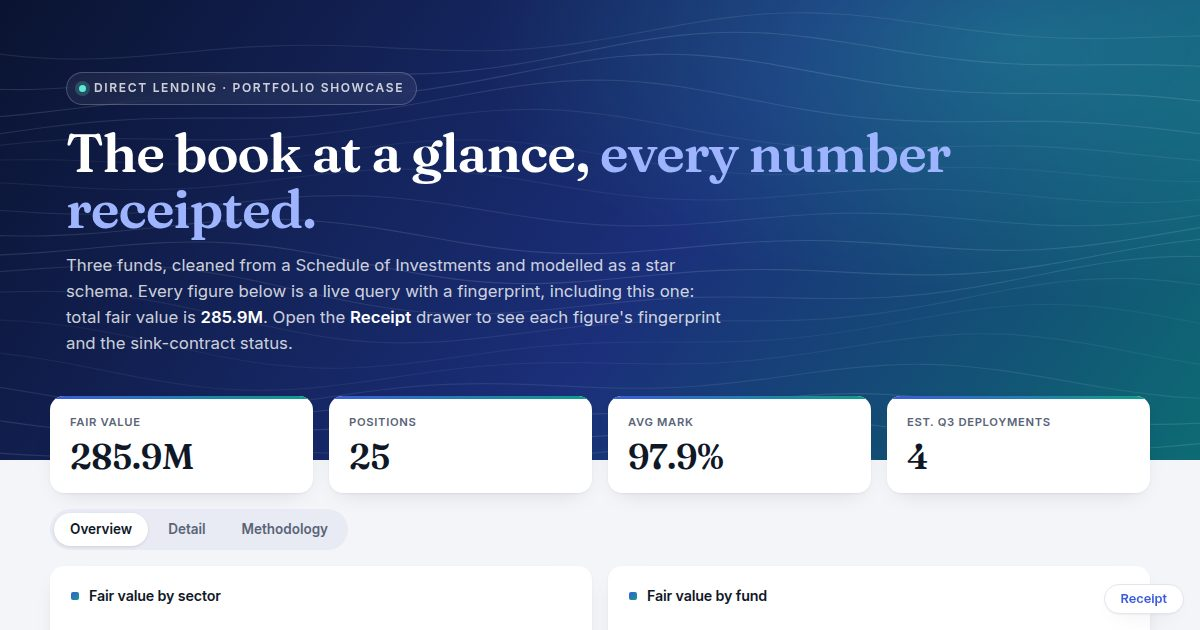
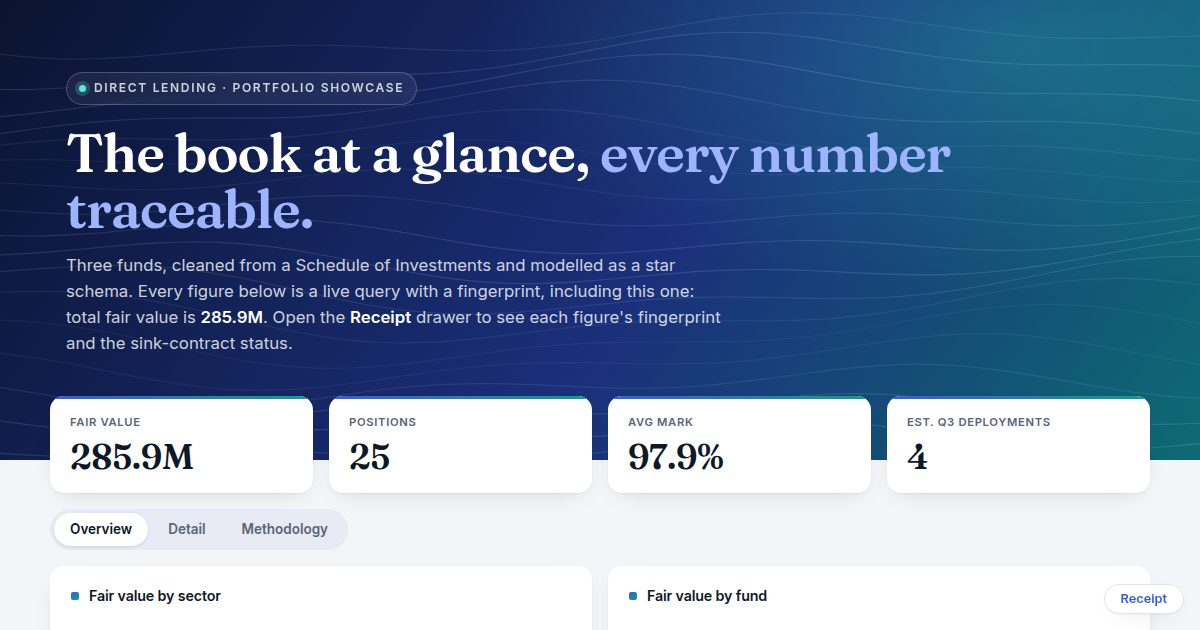
Replace "receipted" with plainer wording
The showcase headline now reads "every number traceable", the landing page
says every number "can be traced back to its query and re-checked", and the
docs say "verifiable lane" (matching `verifiable: false`). The sample report
and the landing-page screenshots are rebuilt from the new showcase.

Claude-Session: https://claude.ai/code/session_01WQqyZ6rjqANCdtd7jyQoU1

Changed region(s): [[0.0617, 0.3016, 0.2775, 0.3921]]

diff --git a/site/sample/portfolio_showcase.html b/site/sample/portfolio_showcase.html
@@ -751,7 +751,7 @@ body {
 
   <header class="sc-hero">
     <span class="sc-eyebrow">Direct lending · Portfolio showcase</span>
-    <h1>The book at a glance, <em>every number receipted.</em></h1>
+    <h1>The book at a glance, <em>every number traceable.</em></h1>
     <p class="sc-lede">Three funds, cleaned from a Schedule of Investments and
       modelled as a star schema. Every figure below is a live query with a
       fingerprint, including this one: total fair value is
@@ -2933,7 +2933,7 @@ var tracebiSelectionEval = function (rows, plan, selectionFilters) {
 <script id="tracebi-data-top_issuers" type="application/json">{"name": "top_issuers", "columns": "['dim_issuer.issuer', 'fair_value', 'cost_basis', 'mark']", "dtypes": "['object', 'float64', 'float64', 'float64']", "csv": "dim_issuer.issuer,fair_value,cost_basis,mark\nBeta Widgets Inc,35736396.18,35582296.03,1.0043308096214498\n\"Gamma Software Group, LLC\",34166063.769999996,36184597.85,0.9442156552805241\n\"Theta Retail Brands, LLC\",31893679.020000003,34937672.45,0.9128736055798703\n\"Omega Media Group, LLC\",31339594.54,30081639.720000003,1.0418180269330077\nDelta Systems Ltd,25838793.939999998,25711016.470000003,1.0049697556745407\n\"Mu Financial Services, LLC\",23206263.49,22494138.83,1.0316582317456962\nZeta Diagnostics Corporation,23201836.92,24973231.92,0.9290682517315124\n\"Epsilon Health Partners, LLC\",19231973.65,19926401.76,0.9651503508579261\n"}</script>
 <script id="tracebi-data-concentration" type="application/json">{"name": "concentration", "columns": "['dim_issuer.sector', 'cum_share']", "dtypes": "['object', 'float64']", "csv": "dim_issuer.sector,cum_share\nConsumer,0.2631\nIndustrials,0.5011\nSoftware,0.711\nHealthcare,0.8594\nFinancials,0.9405\nEnergy,1.0\n"}</script>
 <script id="tb-semantic-contract-portfolio_model" type="application/json">{"model": "portfolio_model", "facts": [{"name": "fact_holdings", "table": "fact_holdings", "measures": ["cost", "fair_value", "par", "spread_bps"], "foreign_keys": {"dim_fund": "fund_id", "dim_issuer": "issuer_id"}}], "dimensions": [{"name": "dim_fund", "table": "dim_fund", "key": "fund_id", "attributes": ["fund"]}, {"name": "dim_issuer", "table": "dim_issuer", "key": "issuer_id", "attributes": ["issuer", "sector"]}], "measures": [{"agg": "sum", "column": "cost", "description": "Total cost basis", "format": "currency0", "kind": "simple", "name": "cost_basis"}, {"agg": "sum", "column": "fair_value", "description": "Total fair value", "format": "currency0", "kind": "simple", "name": "fair_value"}, {"description": "Fair value / cost", "format": "percent", "kind": "ratio", "name": "mark", "ratio": ["fair_value", "cost_basis"]}, {"agg": "count", "column": "holding_id", "description": "Position count", "kind": "simple", "name": "positions"}], "tables": [{"name": "dim_fund", "connector": "warehouse", "source": "dim_fund"}, {"name": "dim_issuer", "connector": "warehouse", "source": "dim_issuer"}, {"name": "fact_holdings", "connector": "warehouse", "source": "fact_holdings"}]}</script>
[2 lines of base64/hex data omitted]
 <script id="tracebi-selection" type="application/json">{"report": "portfolio_showcase", "model": "portfolio_model", "filters": {}}</script>
 <script id="tracebi-grain" type="application/json">{"facts": {"fact_holdings": {"rows": [{"dim_issuer.sector": "Consumer", "dim_fund.fund": "Cedar Credit Partners", "dim_issuer.issuer": "Iota Foods Company", "fair_value": 11996473.0, "holding_id": 23, "cost": 12542477.2}, {"dim_issuer.sector": "Consumer", "dim_fund.fund": "Cedar Credit Partners", "dim_issuer.issuer": "Theta Retail Brands, LLC", "fair_value": 18756354.35, "holding_id": 20, "cost": 20323891.99}, {"dim_issuer.sector": "Consumer", "dim_fund.fund": "Harbor Point BDC", "dim_issuer.issuer": "Omega Media Group, LLC", "fair_value": 12484472.23, "holding_id": 18, "cost": 12071718.46}, {"dim_issuer.sector": "Consumer", "dim_fund.fund": "Harbor Point BDC", "dim_issuer.issuer": "Theta Retail Brands, LLC", "fair_value": 13137324.67, "holding_id": 9, "cost": 14613780.46}, {"dim_issuer.sector": "Consumer", "dim_fund.fund": "Meridian Direct Lending", "dim_issuer.issuer": "Omega Media Group, LLC", "fair_value": 18855122.31, "holding_id": 13, "cost": 18009921.26}, {"dim_issuer.sector": "Energy", "dim_fund.fund": "Cedar Credit Partners", "dim_issuer.issuer": "Kappa Energy Holdings, LLC", "fair_value": 717703.12, "holding_id": 24, "cost": 715212.06}, {"dim_issuer.sector": "Energy", "dim_fund.fund": "Harbor Point BDC", "dim_issuer.issuer": "Lambda Pipeline Co", "fair_value": 3279012.0, "holding_id": 25, "cost": 3255252.59}, {"dim_issuer.sector": "Energy", "dim_fund.fund": "Meridian Direct Lending", "dim_issuer.issuer": "Kappa Energy Holdings, LLC", "fair_value": 9243079.31, "holding_id": 5, "cost": 9604429.24}, {"dim_issuer.sector": "Energy", "dim_fund.fund": "Meridian Direct Lending", "dim_issuer.issuer": "Lambda Pipeline Co", "fair_value": 3758647.24, "holding_id": 7, "cost": 3739727.07}, {"dim_issuer.sector": "Financials", "dim_fund.fund": "Meridian Direct Lending", "dim_issuer.issuer": "Mu Financial Services, LLC", "fair_value": 23206263.49, "holding_id": 3, "cost": 22494138.83}, {"dim_issuer.sector": "Healthcare", "dim_fund.fund": "Cedar Credit Partners", "dim_issuer.issuer": "Epsilon Health Partners, LLC", "fair_value": 19231973.65, "holding_id": 1, "cost": 19926401.76}, {"dim_issuer.sector": "Healthcare", "dim_fund.fund": "Harbor Point BDC", "dim_issuer.issuer": "Zeta Diagnostics Corporation", "fair_value": 6545393.0, "holding_id": 8, "cost": 7091560.0}, {"dim_issuer.sector": "Healthcare", "dim_fund.fund": "Meridian Direct Lending", "dim_issuer.issuer": "Zeta Diagnostics Corporation", "fair_value": 16656443.92, "holding_id": 10, "cost": 17881671.92}, {"dim_issuer.sector": "Industrials", "dim_fund.fund": "Cedar Credit Partners", "dim_issuer.issuer": "Acme Industrial Holdings, LLC", "fair_value": 8357072.41, "holding_id": 17, "cost": 8311862.67}, {"dim_issuer.sector": "Industrials", "dim_fund.fund": "Cedar Credit Partners", "dim_issuer.issuer": "Beta Widgets Inc", "fair_value": 20087926.55, "holding_id": 12, "cost": 19520406.44}, {"dim_issuer.sector": "Industrials", "dim_fund.fund": "Cedar Credit Partners", "dim_issuer.issuer": "Sigma Logistics Holdings, LLC", "fair_value": 8114795.85, "holding_id": 19, "cost": 8401514.88}, {"dim_issuer.sector": "Industrials", "dim_fund.fund": "Harbor Point BDC", "dim_issuer.issuer": "Acme Industrial Holdings, LLC", "fair_value": 2858657.41, "holding_id": 15, "cost": 2970828.24}, {"dim_issuer.sector": "Industrials", "dim_fund.fund": "Harbor Point BDC", "dim_issuer.issuer": "Beta Widgets Inc", "fair_value": 9838721.63, "holding_id": 14, "cost": 10201420.59}, {"dim_issuer.sector": "Industrials", "dim_fund.fund": "Harbor Point BDC", "dim_issuer.issuer": "Sigma Logistics Holdings, LLC", "fair_value": 8141824.25, "holding_id": 2, "cost": 8135782.69}, {"dim_issuer.sector": "Industrials", "dim_fund.fund": "Meridian Direct Lending", "dim_issuer.issuer": "Acme Industrial Holdings, LLC", "fair_value": 4822579.11, "holding_id": 21, "cost": 4609098.93}, {"dim_issuer.sector": "Industrials", "dim_fund.fund": "Meridian Direct Lending", "dim_issuer.issuer": "Beta Widgets Inc", "fair_value": 5809748.0, "holding_id": 16, "cost": 5860469.0}, {"dim_issuer.sector": "Software", "dim_fund.fund": "Cedar Credit Partners", "dim_issuer.issuer": "Delta Systems Ltd", "fair_value": 19582802.49, "holding_id": 6, "cost": 18790498.26}, {"dim_issuer.sector": "Software", "dim_fund.fund": "Cedar Credit Partners", "dim_issuer.issuer": "Gamma Software Group, LLC", "fair_value": 12690016.66, "holding_id": 11, "cost": 13415372.58}, {"dim_issuer.sector": "Software", "dim_fund.fund": "Harbor Point BDC", "dim_issuer.issuer": "Gamma Software Group, LLC", "fair_value": 21476047.11, "holding_id": 4, "cost": 22769225.27}, {"dim_issuer.sector": "Software", "dim_fund.fund": "Meridian Direct Lending", "dim_issuer.issuer": "Delta Systems Ltd", "fair_value": 6255991.45, "holding_id": 22, "cost": 6920518.21}]}}, "bindings": {"kpis": {"offline": true, "fact": "fact_holdings", "dimensions": [], "aggs": [{"name": "fair_value", "source": "fair_value", "func": "sum"}, {"name": "positions", "source": "holding_id", "func": "count"}, {"name": "cost_basis", "source": "cost", "func": "sum"}], "ratios": [{"name": "mark", "num": "fair_value", "den": "cost_basis"}], "order_by": [], "limit": null, "binding_filters": {}}, "by_sector": {"offline": true, "fact": "fact_holdings", "dimensions": ["dim_issuer.sector"], "aggs": [{"name": "fair_value", "source": "fair_value", "func": "sum"}], "ratios": [], "order_by": [{"column": "fair_value", "desc": true}], "limit": null, "binding_filters": {}}, "by_fund": {"offline": true, "fact": "fact_holdings", "dimensions": ["dim_fund.fund"], "aggs": [{"name": "fair_value", "source": "fair_value", "func": "sum"}], "ratios": [], "order_by": [{"column": "fair_value", "desc": true}], "limit": null, "binding_filters": {}}, "holdings_detail": {"offline": true, "fact": "fact_holdings", "dimensions": ["dim_issuer.issuer", "dim_issuer.sector"], "aggs": [{"name": "fair_value", "source": "fair_value", "func": "sum"}, {"name": "cost_basis", "source": "cost", "func": "sum"}], "ratios": [{"name": "mark", "num": "fair_value", "den": "cost_basis"}], "order_by": [{"column": "fair_value", "desc": true}], "limit": null, "binding_filters": {}}, "top_issuers": {"offline": true, "fact": "fact_holdings", "dimensions": ["dim_issuer.issuer"], "aggs": [{"name": "fair_value", "source": "fair_value", "func": "sum"}, {"name": "cost_basis", "source": "cost", "func": "sum"}], "ratios": [{"name": "mark", "num": "fair_value", "den": "cost_basis"}], "order_by": [{"column": "fair_value", "desc": true}], "limit": 8, "binding_filters": {}}}}</script>
 <script id="tracebi-figures" type="application/json">{"badges": false, "figures": [{"id": "val-fv-inline", "provenance": "verified"}, {"id": "kpi-fv", "provenance": "verified"}, {"id": "kpi-pos", "provenance": "verified"}, {"id": "kpi-mark", "provenance": "verified"}, {"id": "kpi-est", "provenance": "unverified", "note": "analyst estimate"}, {"id": "chart-sector", "provenance": "verified"}, {"id": "fig-chart_fund", "provenance": "verified"}, {"id": "tbl-top", "provenance": "verified"}, {"id": "chart-conc", "provenance": "derived"}, {"id": "tbl-detail", "provenance": "verified"}]}</script>

diff --git a/site/index.html b/site/index.html
@@ -353,7 +353,7 @@
     <p>Revenue means the same thing in a quick answer as it does in the board pack, because a measure is declared once on the model and every report calls it by name. A question can grow into an analysis, and an analysis can become a weekly report, without a rebuild in another tool.</p>
     <div class="grid g3 path3" style="margin-top:1.6em">
       <div class="card val"><div class="ic">ASK</div><h3>An answer in seconds</h3><p>“What was fair value in Software last quarter, by fund?” An agent queries the model and answers, with the definition it used and a fingerprint behind every number. Nothing to review: it only uses definitions a person already approved.</p><span class="today">today: on an open report, and from any MCP agent</span></div>
-      <div class="card val"><div class="ic">BUILD</div><h3>A one-off analysis, your way</h3><p>An analyst and their agent explore live, keep the charts that tell the story, write the prose, and lay out the page with the team’s style. The result is one file with every number receipted. Most analysis is done once, and that’s fine.</p><span class="today">today: tracebi new-report · dev · report build</span></div>
+      <div class="card val"><div class="ic">BUILD</div><h3>A one-off analysis, your way</h3><p>An analyst and their agent explore live, keep the charts that tell the story, write the prose, and lay out the page with the team’s style. The result is one file where every number can be traced back to its query and re-checked. Most analysis is done once, and that’s fine.</p><span class="today">today: tracebi new-report · dev · report build</span></div>
       <div class="card val"><div class="ic">SCHEDULE</div><h3>Approve it once</h3><p>Give a report a <span class="mono">schedule</span> block and it runs on its own: refresh the data, build, check the numbers still reproduce, then email it. Approved once, in a pull request, like any other code.</p><span class="today">today: tracebi schedule run · serve</span></div>
     </div>
     <p class="statement" style="margin-top:1.6em">Everything that makes a number is <b>in the repo, reviewable, and governed.</b></p>

diff --git a/site/docs/concepts/report.html b/site/docs/concepts/report.html
@@ -120,7 +120,7 @@ needs its own binding, and value figures never react to controls. See
 <code>verifiable: false</code> and never read green.</p>
 <p>That asymmetry is deliberate — see <a href="../concepts/receipts.html">Receipts</a>. Reach for
 it only when the <a href="../concepts/model.html">Model — phase ②</a> genuinely cannot express the number, because
-everything you compute here leaves the receipted lane.</p>
+everything you compute here leaves the verifiable lane.</p>
 <h2 id="related">Related</h2>
 <ul>
 <li><a href="../reference/report-json.html">report.json</a> · <a href="../reference/template-html.html">template.html — the figure grammar</a> · <a href="../reference/figure-helper.html">{{ figure("name") }}</a></li>

diff --git a/site/docs/concepts/model.html b/site/docs/concepts/model.html
@@ -108,7 +108,7 @@ not declared, so anything the model <em>can</em> express is automatically replay
 a <code>report.py</code> whose outputs are stamped <code>verifiable: false</code> and never read
 green.</p>
 <p>So adding a measure kind is not only a convenience feature; it pulls a number
-back into the receipted lane. That is why the <a href="../reference/measures.html">Measures</a> vocabulary is
+back into the verifiable lane. That is why the <a href="../reference/measures.html">Measures</a> vocabulary is
 deliberately broad and deliberately closed: broad, so real analysis fits; closed,
 so nothing arbitrary slips in.</p>
 <h2 id="validate-it">Validate it</h2>

diff --git a/examples/portfolio_project/reports/portfolio_showcase/template.html b/examples/portfolio_project/reports/portfolio_showcase/template.html
@@ -28,7 +28,7 @@
 
   <header class="sc-hero">
     <span class="sc-eyebrow">Direct lending · Portfolio showcase</span>
-    <h1>The book at a glance, <em>every number receipted.</em></h1>
+    <h1>The book at a glance, <em>every number traceable.</em></h1>
     <p class="sc-lede">Three funds, cleaned from a Schedule of Investments and
       modelled as a star schema. Every figure below is a live query with a
       fingerprint, including this one: total fair value is

diff --git a/docs/strategy/vision-and-positioning.md b/docs/strategy/vision-and-positioning.md
@@ -46,7 +46,7 @@ TraceBi is built around those three. BI tools are built around the editor.
 | Starts with | A question: "What was fair value in Software last quarter?" | A piece of work: a deep dive, a board memo, a client deliverable, a one-off investigation | "Send the sales leads this every Monday." |
 | What happens | An agent queries the model and answers in seconds | The analyst explores live (`tracebi dev`), shapes the story, lays out the page their way, and builds one self-contained file | The report gets a `schedule` block and runs on its own: refresh, build, check, deliver |
 | Review | None per question: it only uses definitions already approved | The analyst's call. Peer review for anything that leaves the team, as with any analysis. | Approved once, in a pull request |
-| Result | An answer with the query and a fingerprint behind every number | A one-off artifact: charts, tables and prose, every number receipted, shareable as one file | A report that arrives on time, every time |
+| Result | An answer with the query and a fingerprint behind every number | A one-off artifact: charts, tables and prose, every number traceable, shareable as one file | A report that arrives on time, every time |
 | Today | Ask on a report; any MCP agent (`query_model`) | ✅ `tracebi new-report`, `tracebi dev` with the workbench, `report build`, custom styling and assets | ✅ `schedule` block, `tracebi schedule` |
 
 **They connect.** A question can grow into a one-off analysis, and a one-off

diff --git a/docs/strategy/product-strategy.md b/docs/strategy/product-strategy.md
@@ -43,7 +43,7 @@ first-class, not as a report waiting for a schedule.
 | **Explore** | The analyst (or their agent) queries the model and tries ideas; scratch work stays out of the final file | ✅ `tracebi dev`, the workbench, exploration blocks, `tracebi.workbench.show()`, `tracebi session export` | Share a live exploration link with a colleague | Q2 |
 | **Shape** | Pick what the story needs: figures, prose, tables | ✅ Package grammar, `{{ figure() }}`, `report.py` for the analysis the model can't express | Templates for common analyses (variance, cohort, concentration) | Q2 |
 | **Lay out** | The page looks the way the analyst wants | ✅ `style.css`, `assets/` fonts and images, `configureChart` | A small gallery of layouts to start from | Q2 |
-| **Build and share** | One self-contained file, every number receipted | ✅ `tracebi report build`, `tracebi report send`, `verify --file` | Download as PDF; a shareable link from the app | Q2–Q3 |
+| **Build and share** | One self-contained file, every number traceable | ✅ `tracebi report build`, `tracebi report send`, `verify --file` | Download as PDF; a shareable link from the app | Q2–Q3 |
 | **Review** | Peer review, the way the team already reviews analysis | Git pull request, pins in the workbench | Review in the app for people who don't use git | Q3 |
 
 The analyst stays in charge: plain files, their own layout and prose, and an

diff --git a/tracebi/knowledge/lessons/group-by-band.md b/tracebi/knowledge/lessons/group-by-band.md
@@ -7,7 +7,7 @@ when: bucketing a numeric attribute into ranges — score bands, age brackets, s
 by raw columns only — grouping by `credit_score` gives one row per distinct
 score, useless. So the band gets pre-baked as a column in the transform (a
 maintenance burden, and every new cut is a schema change) or computed in
-`report.py` (ungoverned, `verifiable: false`), out of the receipted lane.
+`report.py` (ungoverned, `verifiable: false`), out of the verifiable lane.
 
 **The correct pattern in TraceBi.** Declare **value bins** on the dimension — a
 governed CASE over ranges, referenced like any attribute:

diff --git a/docs/strategy/users-and-jobs.md b/docs/strategy/users-and-jobs.md
@@ -69,7 +69,7 @@ asks their agent to pull margin by region and product, and explores in
 scratch blocks that never reach the final file. They keep three charts and a
 table, write the explanation in their own words, and lay the page out with
 the team's style. `tracebi report build` produces one file with every number
-receipted; a colleague reviews it, and it goes to the CFO. Nobody schedules
+traceable; a colleague reviews it, and it goes to the CFO. Nobody schedules
 it. It answered the question.
 
 **Target:** from question to a polished, shareable analysis in an afternoon.

diff --git a/docs/concepts/model.md b/docs/concepts/model.md
@@ -50,7 +50,7 @@ a `report.py` whose outputs are stamped `verifiable: false` and never read
 green.
 
 So adding a measure kind is not only a convenience feature; it pulls a number
-back into the receipted lane. That is why the [[measures]] vocabulary is
+back into the verifiable lane. That is why the [[measures]] vocabulary is
 deliberately broad and deliberately closed: broad, so real analysis fits; closed,
 so nothing arbitrary slips in.
 

diff --git a/docs/concepts/report.md b/docs/concepts/report.md
@@ -73,7 +73,7 @@ Add `report.py` with a `build(inputs) -> {name: DataFrame}` function. Its
 
 That asymmetry is deliberate — see [[receipts#Unverifiable figures]]. Reach for
 it only when the [[model]] genuinely cannot express the number, because
-everything you compute here leaves the receipted lane.
+everything you compute here leaves the verifiable lane.
 
 ## Related
 
